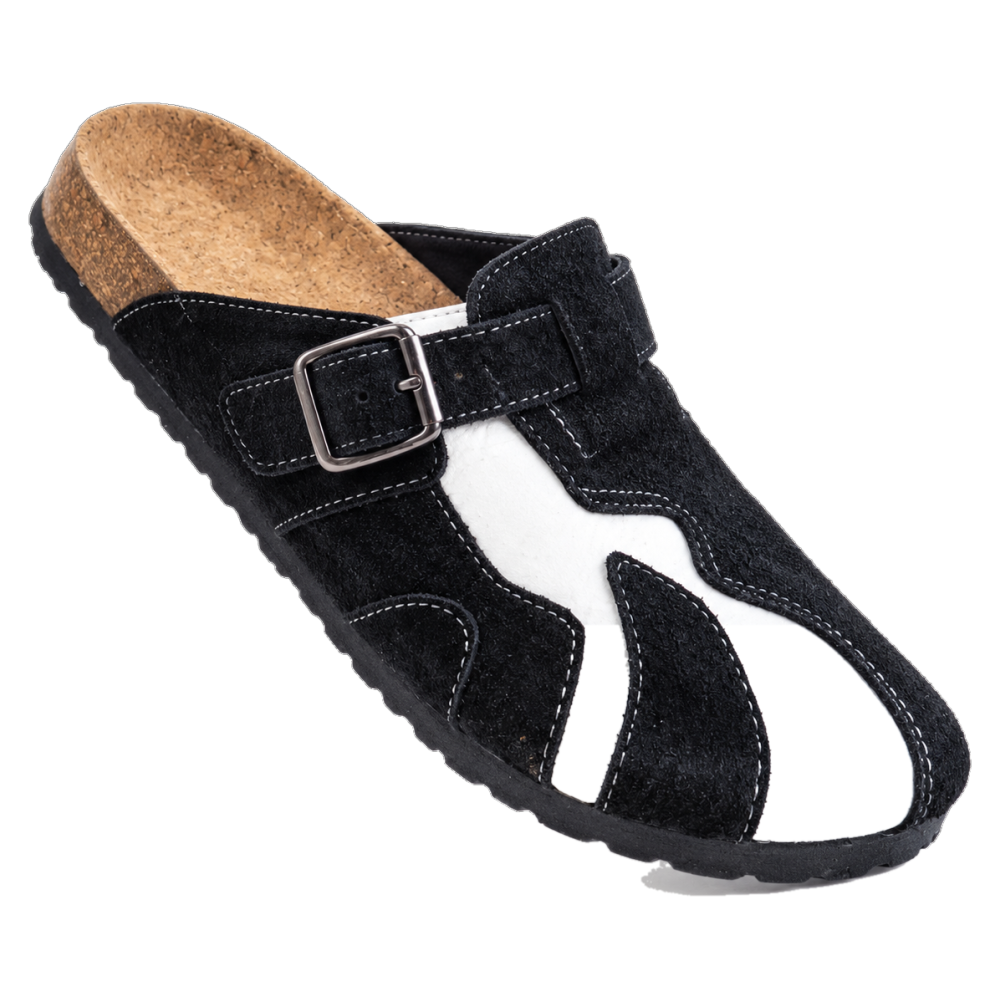
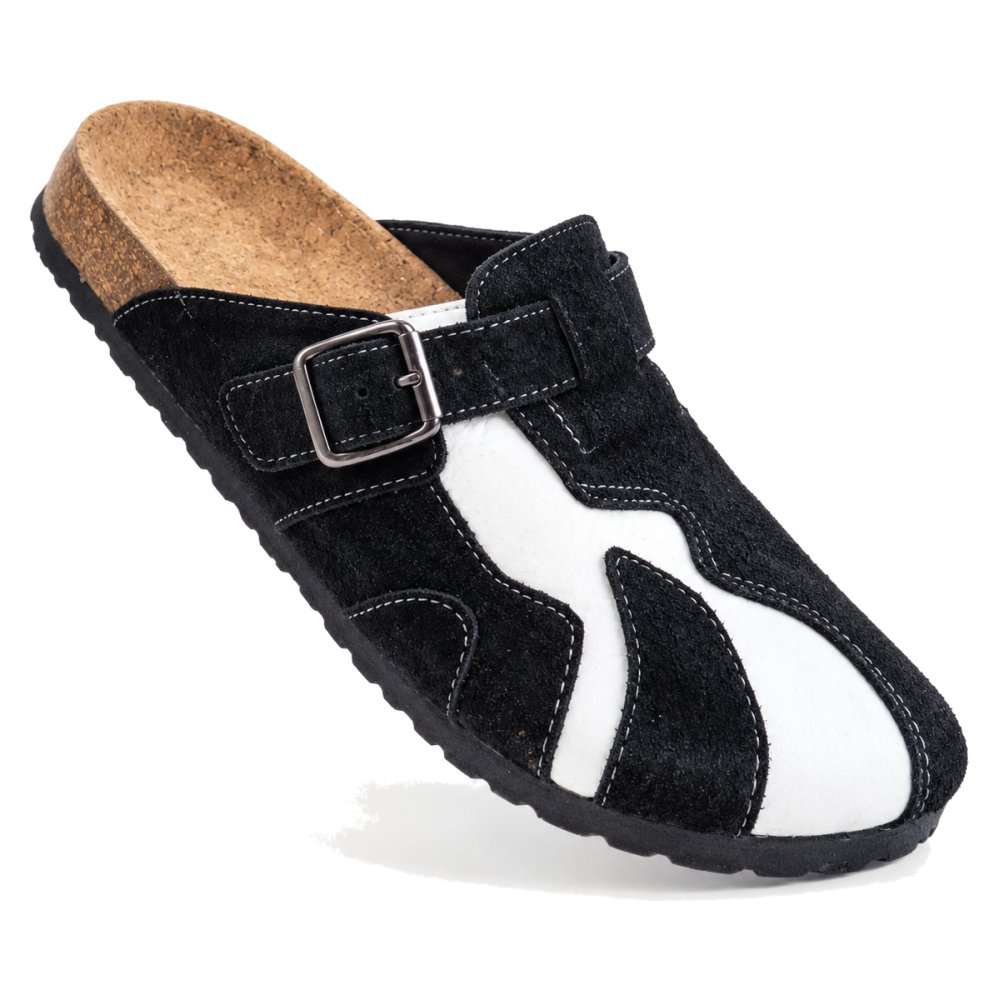
fix: restore white leather in black.png, add static orange feature circle backdrop, add floating animation, and fix account page layout background

diff --git a/client/src/components/ExclusiveProductSection.jsx b/client/src/components/ExclusiveProductSection.jsx
@@ -194,6 +194,17 @@ export default function ExclusiveProductSection() {
           {/* CENTER COLUMN: Supplied Product Showcase & Realistic Turntable Base */}
           <div className="lg:col-span-6 relative flex flex-col items-center justify-center min-h-[420px] sm:min-h-[500px] lg:min-h-[560px] order-1 lg:order-2 px-2 sm:px-4">
             
+            {/* STATIC ORANGE FEATURE CIRCLE BACKDROP (Stays static while products slide left/right) */}
+            <div className="absolute inset-0 flex items-center justify-center pointer-events-none z-0">
+              <div className="relative w-[340px] sm:w-[440px] md:w-[480px] aspect-square rounded-full border border-[#D35B22]/50 shadow-[0_0_25px_rgba(211,91,34,0.12)]">
+                {/* 4 Orange Node Dots on Perimeter */}
+                <div className="absolute top-[22%] left-[9%] -translate-x-1/2 -translate-y-1/2 w-3.5 h-3.5 rounded-full bg-[#D35B22] border-2 border-white shadow-md" />
+                <div className="absolute top-[22%] right-[9%] translate-x-1/2 -translate-y-1/2 w-3.5 h-3.5 rounded-full bg-[#D35B22] border-2 border-white shadow-md" />
+                <div className="absolute bottom-[30%] left-[6%] -translate-x-1/2 translate-y-1/2 w-3.5 h-3.5 rounded-full bg-[#D35B22] border-2 border-white shadow-md" />
+                <div className="absolute bottom-[30%] right-[6%] translate-x-1/2 translate-y-1/2 w-3.5 h-3.5 rounded-full bg-[#D35B22] border-2 border-white shadow-md" />
+              </div>
+            </div>
+
             {/* 4 Connected Feature Callouts (Desktop / Large Tablet Only) */}
             {/* 1. Top Left: Premium Leather */}
             <div className="hidden xl:flex absolute top-4 left-[-20px] z-20 items-start gap-2.5 max-w-[150px] text-left">
@@ -252,7 +263,7 @@ export default function ExclusiveProductSection() {
             </div>
 
             {/* Floating Animation Wrapper & Smooth Slide Track */}
-            <div className="relative z-10 w-full max-w-[420px] sm:max-w-[500px] lg:max-w-[560px] aspect-[4/3] flex items-center justify-center overflow-hidden animate-[float_4s_easeInOut_infinite]">
+            <div className="relative z-10 w-full max-w-[420px] sm:max-w-[500px] lg:max-w-[560px] aspect-[4/3] flex items-center justify-center overflow-hidden animate-float">
               <div
                 className="w-full h-full flex transition-transform duration-700 ease-[cubic-bezier(0.25,1,0.5,1)]"
                 style={{ transform: `translateX(-${selectedIndex * 100}%)` }}

diff --git a/client/src/pages/Account.jsx b/client/src/pages/Account.jsx
@@ -92,7 +92,7 @@ export default function Account() {
   const activeOrder = orderList.find((o) => !['delivered', 'cancelled'].includes(o?.status));
 
   return (
-    <div className="page-enter w-full overflow-hidden">
+    <div className="page-enter w-full overflow-hidden bg-white min-h-screen">
       <div className="flex max-w-container mx-auto min-h-screen">
         {/* Desktop Sidebar */}
         <aside className="hidden md:flex flex-col w-60 flex-shrink-0 border-r border-outline-variant/30 py-8 px-4 sticky top-0 h-screen overflow-y-auto bg-white">

diff --git a/client/src/index.css b/client/src/index.css
@@ -369,6 +369,15 @@
     to { opacity: 1; transform: translateY(0); }
   }
 
+  @keyframes float {
+    0%, 100% { transform: translateY(0px); }
+    50% { transform: translateY(-14px); }
+  }
+
+  .animate-float {
+    animation: float 4s ease-in-out infinite;
+  }
+
   /* ── Skeleton loading ── */
   .skeleton {
     background-color: var(--color-surface-container-high);
